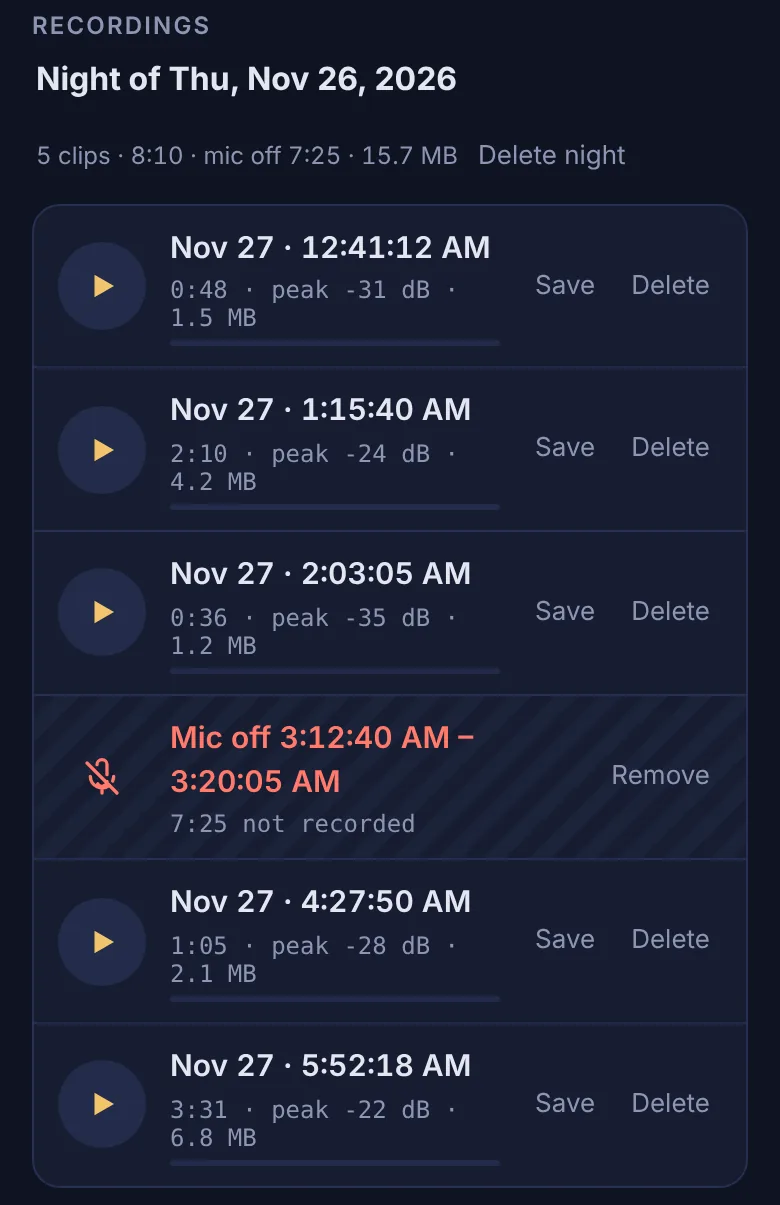
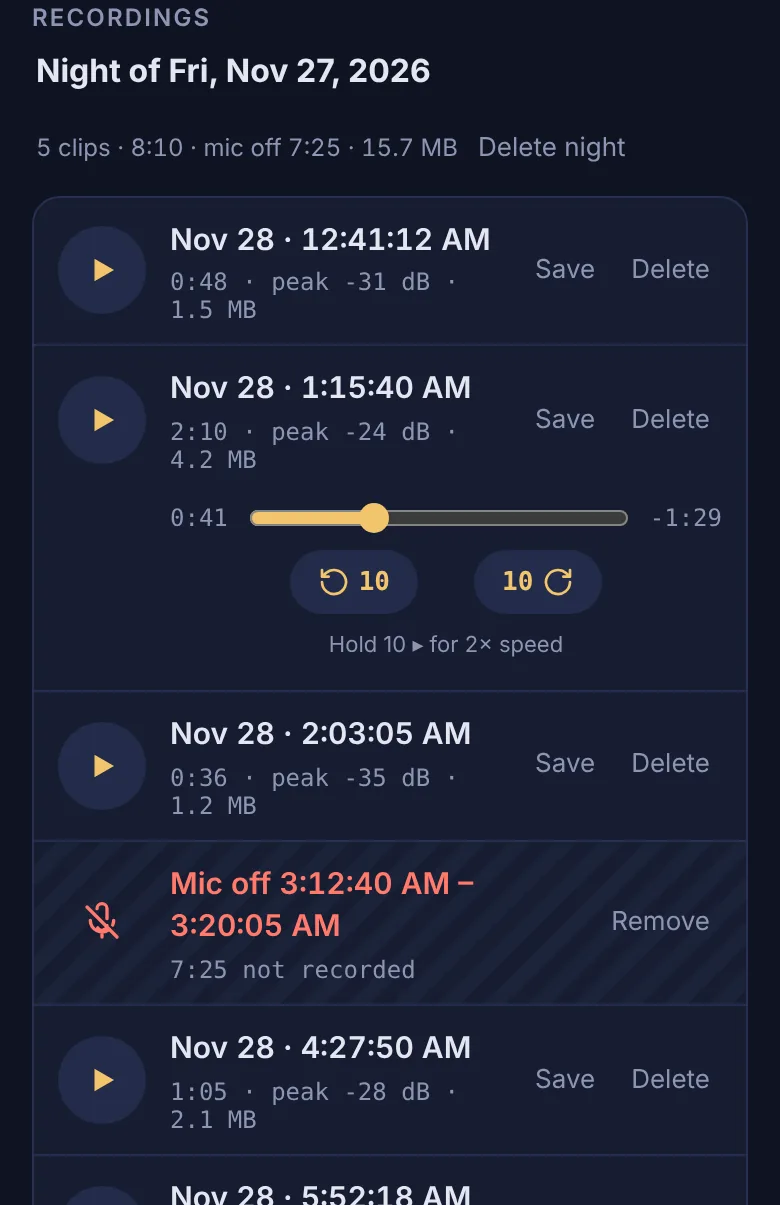
Docs and website: playback controls, stop rule, quiet countdown
- README: playback controls (scrub, 10-second skips, hold for 2x), the
  0.4-second rule for restarting the quiet countdown, the on-screen
  countdown, the iPhone app's low-rumble filter, and new tuning and
  troubleshooting tips.
- Website: 'Skim a long one' feature, updated 'Stops after quiet' step,
  and a new screenshot showing a clip open in the player.
- Remove an unused screenshot.

Claude-Session: https://claude.ai/code/session_01UHfpAzFhqRXDpS7bbToDpi

diff --git a/web/index.html b/web/index.html
@@ -224,7 +224,7 @@ footer nav{display:flex;flex-wrap:wrap;gap:18px}
         <li><h3>Learns your room</h3><p>For the first few seconds it measures how loud your bedroom normally is: a fan, the heating, traffic outside.</p></li>
         <li><h3>Waits for a louder sound</h3><p>A clip starts when a sound is clearly louder than the room, by <code>+12 dB</code> unless you change it, for at least a quarter of a second.</p></li>
         <li><h3>Keeps the lead-in</h3><p>Each clip includes the 3 seconds <em>before</em> the sound, so you hear the whole snore, not just its peak.</p></li>
-        <li><h3>Stops after quiet</h3><p>After a stretch of silence you choose (2 minutes by default), the clip is saved with its date and time, and listening carries on.</p></li>
+        <li><h3>Stops after quiet</h3><p>After a stretch of silence you choose (2 minutes by default), the clip is saved with its date and time, and listening carries on. Clicks and rustles don't restart the countdown.</p></li>
       </ol>
       <p class="note">The room level keeps updating all night, using the quietest moments of the last minute. If a fan switches on at 3 am, the trigger moves up with it instead of recording until morning.</p>
     </div>
@@ -232,12 +232,13 @@ footer nav{display:flex;flex-wrap:wrap;gap:18px}
 
   <section>
     <div class="wrap morning">
-      <div class="phone"><img src="img/morning-list.webp" alt="Snore Log's recordings list for one night: five clips with times, lengths and loudness, and one Mic off entry" width="780" height="1205" loading="lazy"></div>
+      <div class="phone"><img src="img/morning-list.webp" alt="Snore Log's recordings list for one night: clips with times, lengths and loudness, one playing with a scrub bar and 10-second skip buttons, and a Mic off entry" width="780" height="1205" loading="lazy"></div>
       <div>
         <h2>Your night, ready in the morning</h2>
         <p class="sub" style="margin-bottom:28px">Open the app with your coffee. Everything is grouped by night.</p>
         <ul class="feature-list">
-          <li><span class="ic"><svg viewBox="0 0 24 24"><path d="M7 4.5v15l13-7.5z"/></svg></span><div><h3>Play any clip</h3><p>Each recording shows when it started, how long it lasted and how loud it got.</p></div></li>
+          <li><span class="ic"><svg viewBox="0 0 24 24"><path d="M7 4.5v15l13-7.5z"/></svg></span><div><h3>Play any clip</h3><p>Each recording shows when it started, how long it lasted and how loud it got. Pausing keeps your place.</p></div></li>
+          <li><span class="ic"><svg viewBox="0 0 24 24"><path d="M13 19l9-7-9-7v14zM2 19l9-7-9-7v14z"/></svg></span><div><h3>Skim a long one</h3><p>Drag to any point, jump 10 seconds back or forward, or hold the forward button to play at 2× while you listen for the loud parts.</p></div></li>
           <li><span class="ic"><svg viewBox="0 0 24 24"><path d="M12 3v12M7 8l5-5 5 5M5 14v5a2 2 0 0 0 2 2h10a2 2 0 0 0 2-2v-5"/></svg></span><div><h3>Save or share</h3><p>Send a clip to your partner, keep it in Files, or bring it to a doctor's appointment.</p></div></li>
           <li><span class="ic r"><svg viewBox="0 0 24 24"><path d="M9 4a3 3 0 0 1 6 0v6M15 14a3 3 0 0 1-5.6 1.5M5 11a7 7 0 0 0 11.5 5.3M12 18v3M3 3l18 18"/></svg></span><div><h3>Honest gaps</h3><p>If a phone call or alarm took the microphone, a <span class="mono" style="color:var(--rec)">Mic off</span> entry shows exactly which minutes weren't covered. Silence in the list really means silence.</p></div></li>
           <li><span class="ic"><svg viewBox="0 0 24 24"><path d="M3 6h18M8 6V4h8v2M6 6l1 14h10l1-14"/></svg></span><div><h3>Tidy up</h3><p>Delete one clip or a whole night. The list shows how much space each night uses.</p></div></li>

diff --git a/README.md b/README.md
@@ -37,6 +37,7 @@ Free, open source (MIT), no account, no subscription. Recordings stay on your de
 - **Stops after a stretch of quiet** you choose, saves the clip with its date and time, and keeps listening.
 - **Groups everything by night**, with each clip's length and loudness.
 - **Plays, shares and deletes** clips; delete a whole night in one go.
+- **Easy to listen through:** drag the scrub bar, jump back or forward 10 seconds, or **hold the forward button to play at 2×** (voices keep their normal pitch). Pausing keeps your place.
 - **Shows gaps honestly**: if an alarm, a call or Siri took the microphone, a **Mic off** entry shows which minutes weren't covered.
 - **Gets out of the way of your alarm**: it steps aside when iPhone needs the audio and starts listening again when you stop the alarm.
 
@@ -115,9 +116,11 @@ The web app and iPhone app use the same rules:
 2. **Keeps tracking the room.** The room level is the quietest 10% of the last 60 seconds, updated all night, *including while recording*. Snoring has quiet gaps between breaths, so the room level holds steady while you snore; a steady new noise (fan, heater) lifts it within about a minute, so a recording can't run until morning.
 3. **Triggers on louder sounds.** A clip starts when the sound is **sensitivity** dB above the room (default **+12 dB**) for at least a quarter of a second.
 4. **Keeps a lead-in.** Each clip includes the **3 seconds before** the trigger.
-5. **Ends after quiet.** The clip ends after the **silence** time you choose (default **2 minutes**) without loud sounds; the quiet tail is trimmed to 4 seconds.
+5. **Ends after quiet.** The clip ends after the **silence** time you choose (default **2 minutes**) without loud sounds; the quiet tail is trimmed to 4 seconds. Only a sound that stays **above the trigger for 0.4 seconds in a row** restarts this countdown, so clicks, rustles and other short blips don't keep a recording going. While recording, the screen shows the countdown, e.g. **Quiet 0:23 of 1:00**.
 6. **Splits long clips** at 20 minutes.
 7. **Saves small, audible files.** Audio is downsampled to 16 kHz mono (plenty for snoring), and quiet clips are boosted (up to 8×) so they're easy to hear.
+
+The iPhone app also **filters out deep rumble below about 80 Hz** (air handling, traffic, the building) before measuring. It uses the raw microphone so levels stay consistent all night, and without the filter that rumble could keep recordings from ending. Snoring is well above 80 Hz. The web app gets audio that iPhone has already cleaned up, so it doesn't need this.
 
 ## Settings and tuning
 
@@ -132,8 +135,9 @@ The web app and iPhone app use the same rules:
 - Clips are mostly rustling, a partner or other noises: raise sensitivity to **+15 to +18**.
 - Quiet snoring is missing: lower it to **+8 to +10**.
 - Clips are split into many short pieces: lengthen the silence time.
+- Recordings run much longer than the silence time: watch the **Quiet** countdown while it records. If it keeps dropping back to 0:00 when the room seems silent, something in the room is louder than the trigger; raise sensitivity a few dB.
 
-The yellow line on the live graph is the trigger level: sounds above it are recorded.
+The yellow line on the live graph is the trigger level: sounds above it are recorded. Next to the live level, the app shows the trigger level and, while recording, the quiet countdown.
 
 ## Alarms, calls and "Mic off"
 
@@ -165,6 +169,8 @@ Full text: [privacy page](https://insanum.github.io/snore-log/privacy.html).
 **iPhone app**
 - *"Microphone access is off":* **Settings → Privacy & Security → Microphone → Snore Log**.
 - *No clips after a night:* check the night's chart. If the level line never crosses the dashed trigger line, lower the sensitivity.
+- *Clips much longer than expected:* see "Recordings run much longer than the silence time" under [Settings and tuning](#settings-and-tuning).
+- *App stopped opening after a week (self-built):* free Apple Account installs expire after 7 days. Connect the phone and press Run in Xcode again; recordings are kept.
 
 ## Repository layout
 
